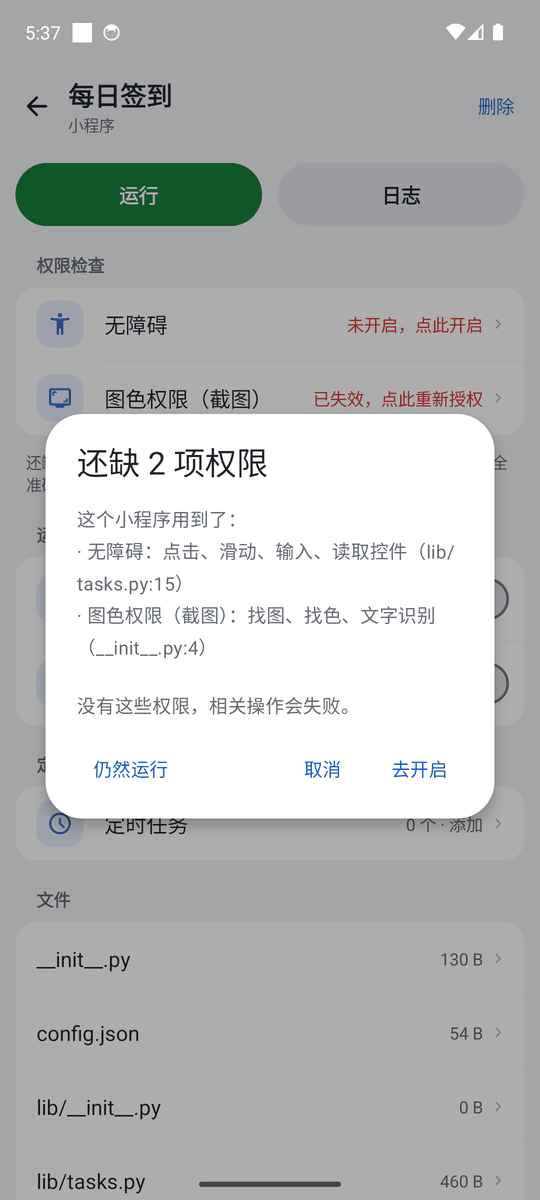
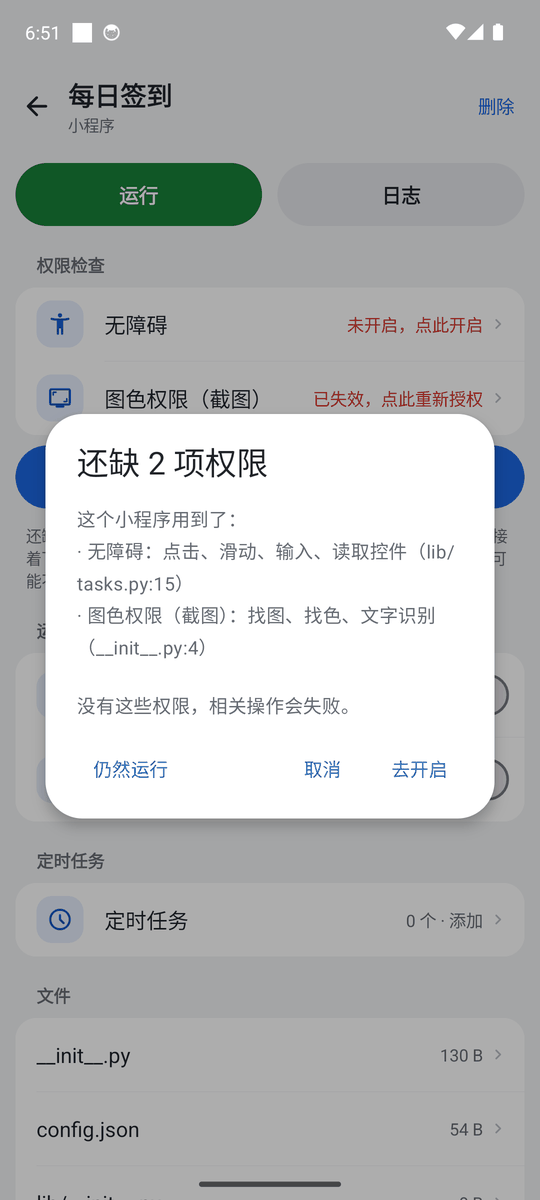
docs: describe the one-tap permission guide and retake phone screenshots

diff --git a/docs/使用手册.md b/docs/使用手册.md
@@ -95,9 +95,11 @@ python3 scripts/device_float_e2e.py emulator-5554 http://127.0.0.1:19860   # 134
 - 右上角 **新建**：新建一个空工程（名字必须是合法的 Python 标识符，可以用中文）。
 - 右上角 **导入**：从 zip 导入，或从 AScript（`/sdcard/airscript/model`，需要 root）导入。
 - 点某个小程序进入详情页，可以：运行 / 停止、看日志、打开 **开机自启** 和 **停止后重新运行**、添加 **定时任务**、查看和编辑文件、删除。
-- 详情页的 **权限检查** 按这个小程序代码里用到的接口，列出它需要的权限和现在的状态：点击 / 滑动 / 控件要 **无障碍**（有 Root 且运行模式允许时也可以），找图找色 / 文字识别要 **图色权限**（系统录屏、无障碍截图或 Root 截图任一可用即可），悬浮窗、监听通知、读写 `/sdcard` 各有对应权限。红字一行点一下直接去开启。缺权限时点 **运行** 会先列出缺哪几项、在哪个文件第几行用到，可以选 **去开启**、**仍然运行** 或取消。这是按代码文字判断的，动态拼出来的调用可能检查不到。
+- 详情页的 **权限检查** 按这个小程序代码里用到的接口，列出它需要的权限和现在的状态：点击 / 滑动 / 控件要 **无障碍**（有 Root 且运行模式允许时也可以），找图找色 / 文字识别要 **图色权限**（系统录屏、无障碍截图或 Root 截图任一可用即可），悬浮窗、监听通知、读写 `/sdcard` 各有对应权限。红字一行点一下直接去开启。缺权限时卡片下方有 **一键开启全部（N 项）**：逐项说明这一项做什么、在系统设置里怎么开，开好按返回键回到详情页就接着下一项（每一步可以 **跳过** 或 **结束**；开了无障碍后截图也能用时，图色那一步会自动略过），最后告诉你是否都开好了、还缺哪几项。缺权限时点 **运行** 会先列出缺哪几项、在哪个文件第几行用到，可以选 **去开启**（进入同样的逐项引导）、**仍然运行** 或取消。这是按代码文字判断的，动态拼出来的调用可能检查不到。
 
 ![小程序详情页：权限检查缺两项时点运行，弹窗列出缺少的权限和用到它们的代码位置](images/phone-project-permissions.png)
+
+![一键开启全部：第 1/2 步开启无障碍，可以去开启、跳过或结束](images/phone-permission-guide.png)
 
 首页顶部的卡片显示上次运行的小程序，右侧按钮直接运行或停止。右上角 **日志** 查看所有运行输出。
 
